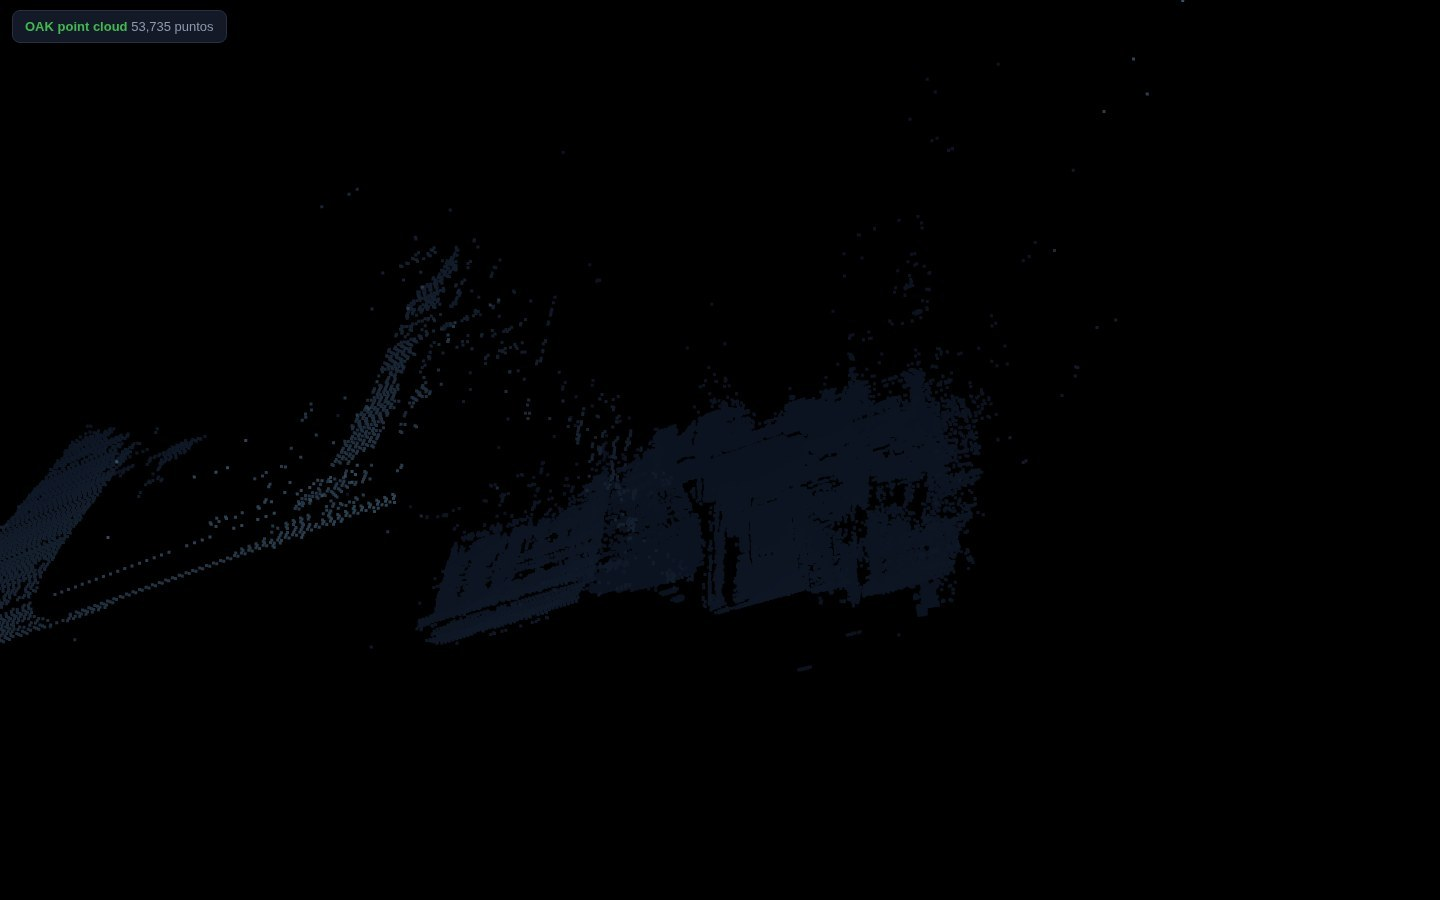
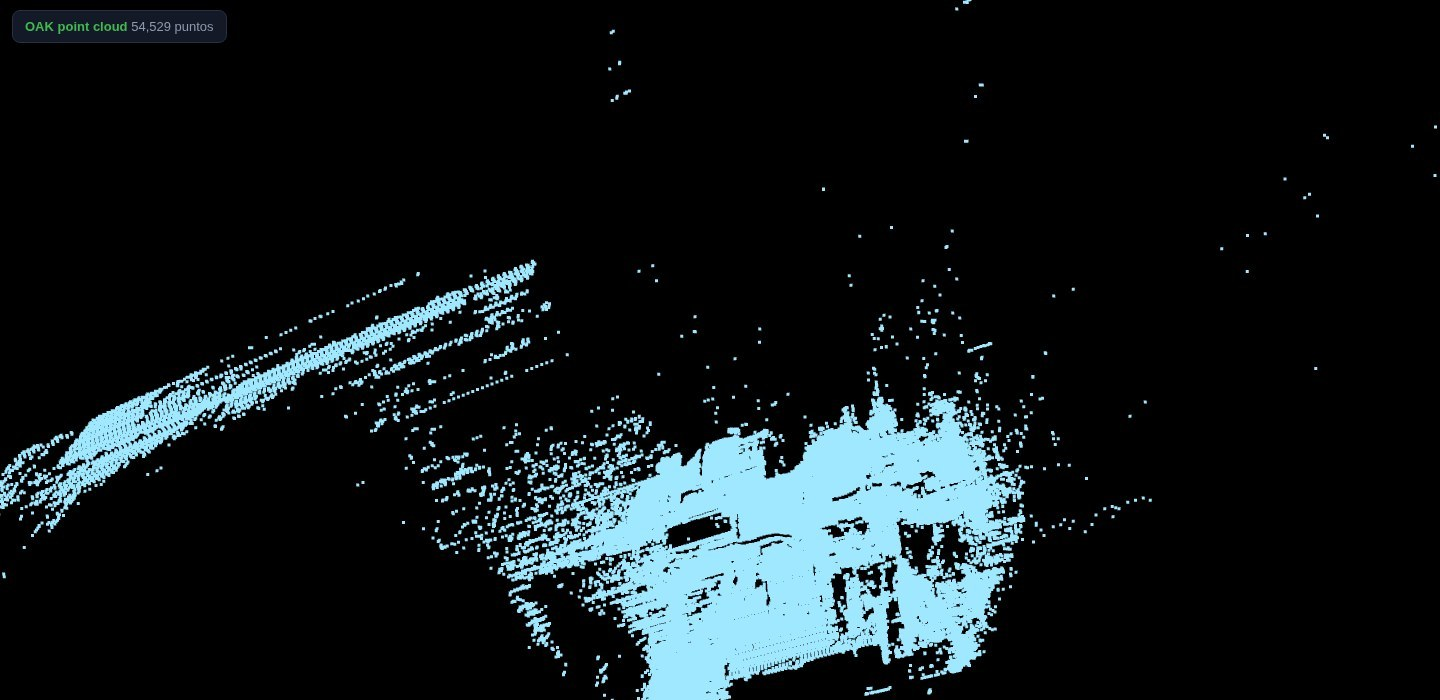
feat(cloud): fixed opening view, and the fog that was hiding it is gone
The viewer auto-fitted the bounding sphere on the first frame, so the same page opened at a
different distance every reload (far noise changes the radius). The camera now starts at the
pose measured on the live page — target (-0.036, 0.052, 1.414), r 2.27, theta -1.2, phi 0.9 —
which is what the tab showed when it was asked for, and two loads give byte-identical camera
parameters. Removed the FogExp2(0.9) as well: at 1.5-2.5 m it washed almost every point out to
the background colour, which is why the cloud looked dark navy.

Changed region(s): [[0.0, 0.27, 0.7188, 1.0], [0.0, 0.0, 0.1562, 0.06], [0.75, 0.72, 0.7812, 0.75]]

diff --git a/docker/ws/cams/cloud_view.py b/docker/ws/cams/cloud_view.py
@@ -80,7 +80,8 @@ PAGE = """<!doctype html><html><head><meta charset="utf-8"><title>OAK point clou
 <script src="/three.min.js"></script>
 <script>
 const scene = new THREE.Scene();
-scene.fog = new THREE.FogExp2(0x0b1220, 0.9);
+// no fog: with density 0.9 everything past ~2 m washed out to the background colour,
+// and the cloud sits 1.5-2.5 m from the sensor
 const cam = new THREE.PerspectiveCamera(55, innerWidth/innerHeight, 0.01, 20);
 cam.position.set(0, -0.9, 0.55);
 const renderer = new THREE.WebGLRenderer({antialias:true});
@@ -88,8 +89,12 @@ renderer.outputColorSpace = THREE.SRGBColorSpace;
 renderer.setSize(innerWidth, innerHeight);
 renderer.setPixelRatio(1);
 document.body.appendChild(renderer.domElement);
-const target = new THREE.Vector3(0, 0, 0.4);
-let sph = {r:1.05, th:-1.2, ph:0.9};
+// Fixed opening view: the cloud is in the camera's optical frame, ~1.4 m ahead of the
+// sensor, so these numbers put the bench in the middle with the same framing every time.
+// (Auto-fitting the bounding sphere made the view jump from load to load, because the far
+// noise changes what "fits".)
+const target = new THREE.Vector3(-0.036, 0.052, 1.414);
+let sph = {r:2.27, th:-1.2, ph:0.9};
 function placeCam(){
   cam.position.set(
     target.x + sph.r*Math.sin(sph.ph)*Math.cos(sph.th),
@@ -154,12 +159,7 @@ async function tick(){
       geom.attributes.position.needsUpdate = true;
       geom.attributes.color.needsUpdate = true;
       geom.computeBoundingSphere();
-      if (!window.__fitted && geom.boundingSphere){
-        const bs = geom.boundingSphere;                 // frame the cloud once
-        target.copy(bs.center);
-        sph.r = Math.max(0.35, bs.radius * 1.25);
-        placeCam(); window.__fitted = true;
-      }
+
       document.getElementById('info').textContent = n.toLocaleString() + ' puntos';
     }
   }catch(e){ document.getElementById('info').textContent = 'sin datos'; }
